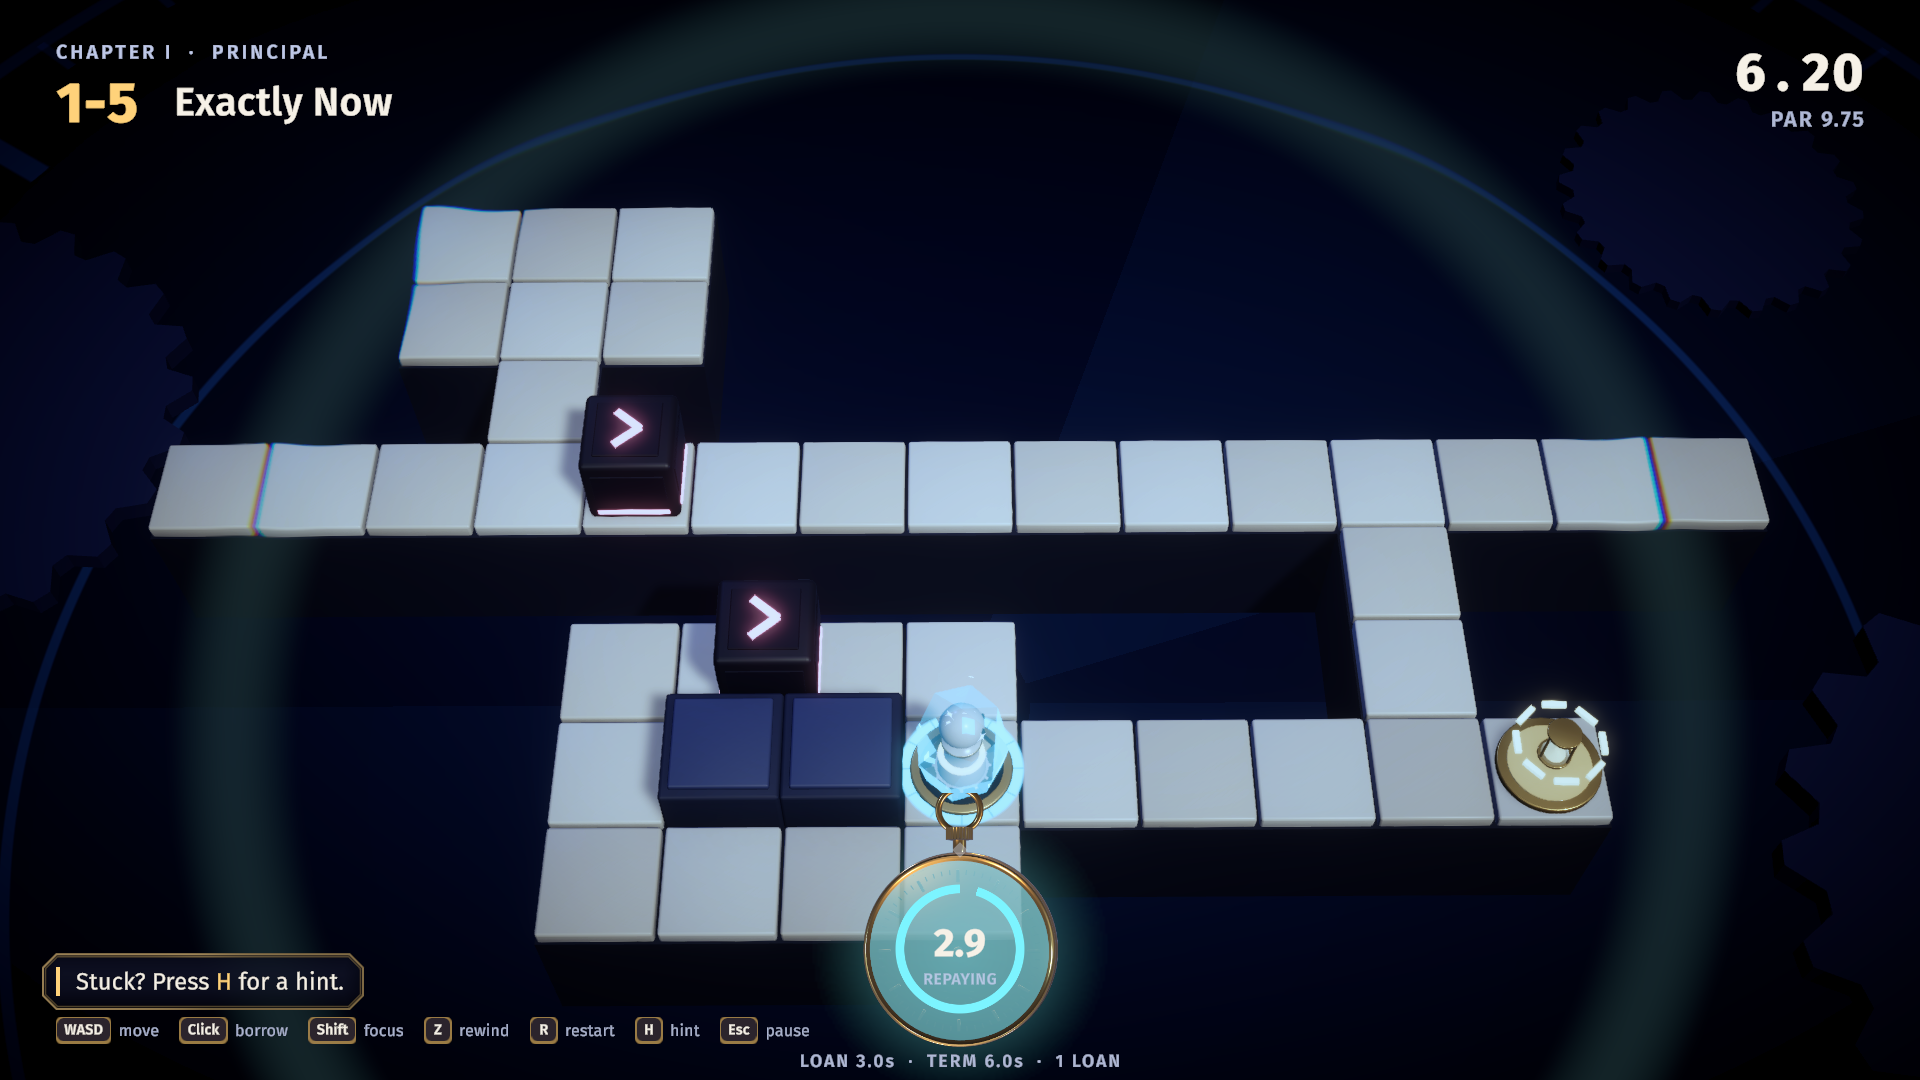
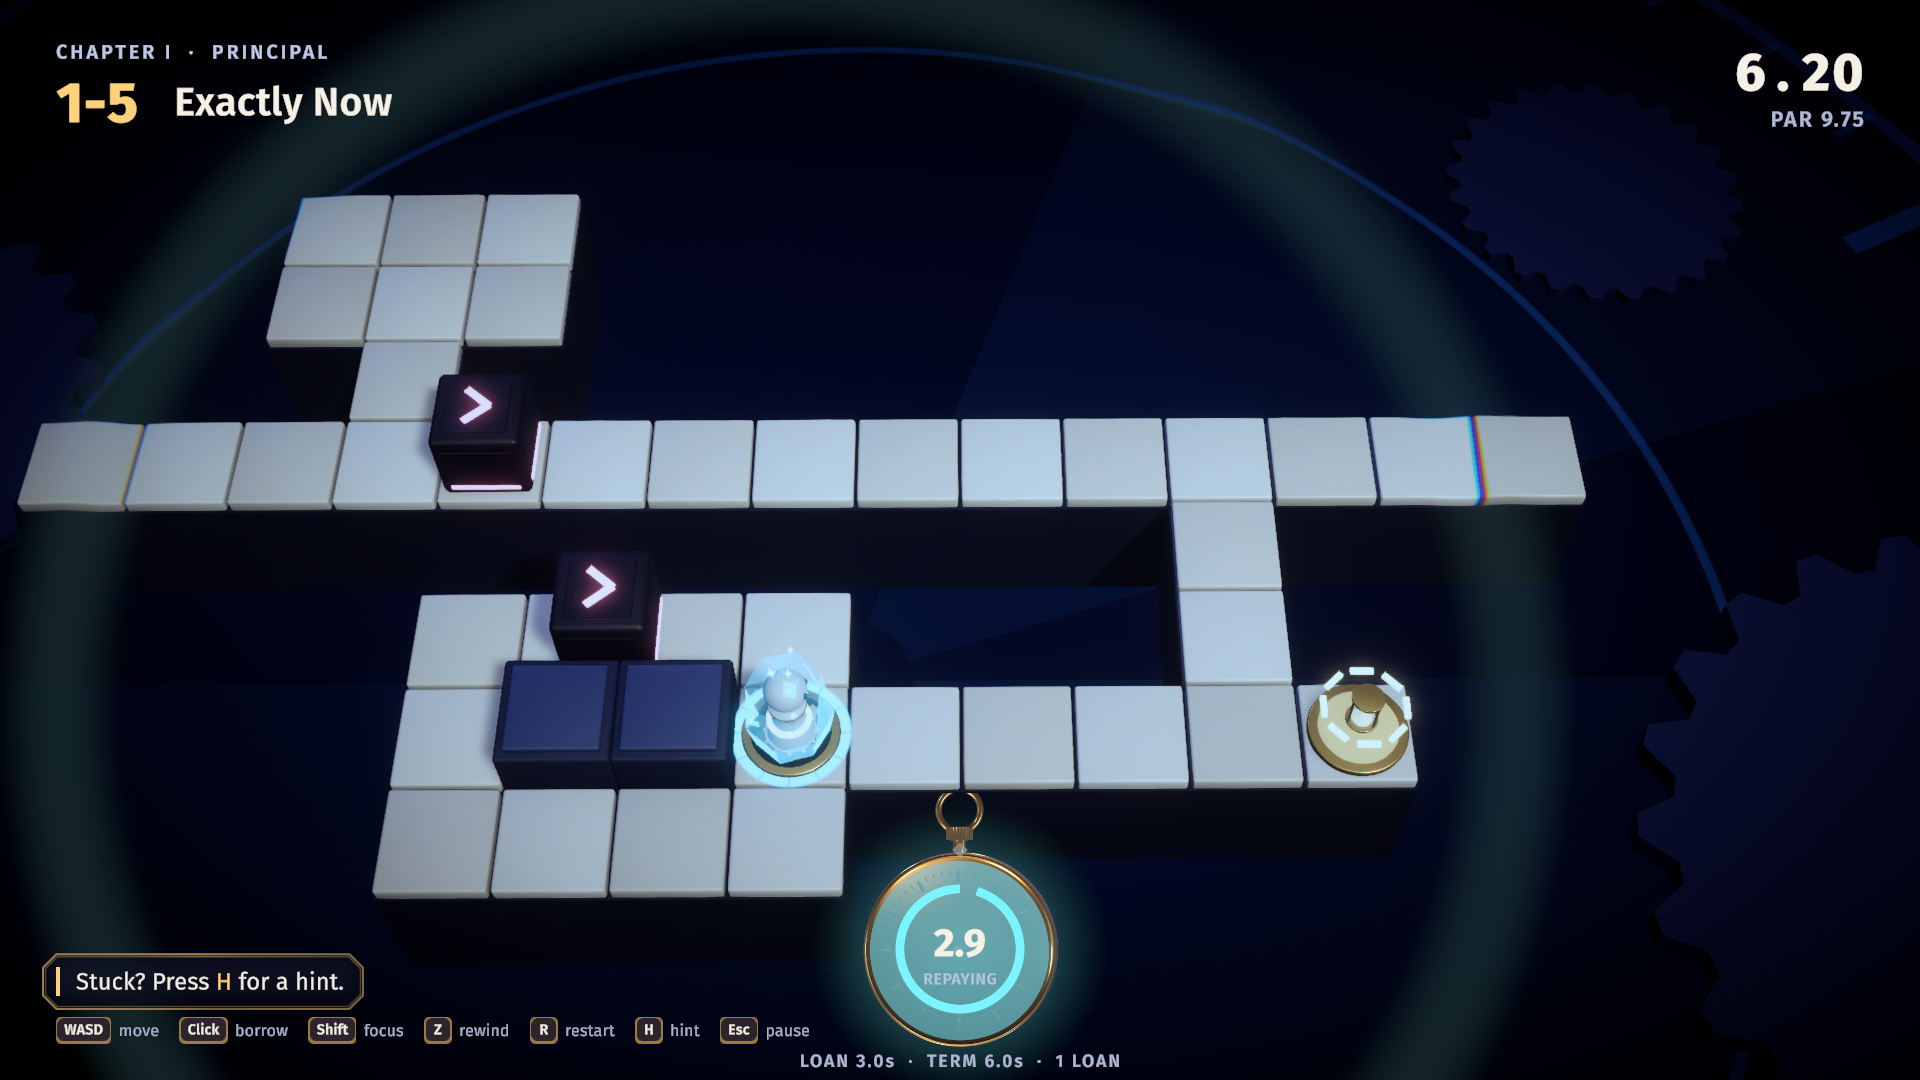
README stills in the game's own framing
The stills tool cleared the trailer's camera moves but framed boards without
the HUD avoidance the game uses, so 4-5's bottom dial and rows of 1-5 and 2-4
sat under the watch in the README shots. Stills of a level in play now frame
the way the game does; the title and menu stills (no HUD) and the trailer's
own shots keep their framing, so the cut is unchanged. Regenerated from the
release build: 03_exactly-now, 04_in-the-beams and 10_settlement changed;
the rest differ only in noise (the title's watch shows the real time) and
were left as they were. record.sh caps files at 512 MB for stills runs.

diff --git a/Assets/Scripts/Game/GameRoot.Trailer.cs b/Assets/Scripts/Game/GameRoot.Trailer.cs
@@ -134,7 +134,7 @@ namespace BorrowedSeconds.Game
             Save.learned = promptDemo ? MiniJson.Int(s, "learned", 0) : ~0;
             List<TimedAction> acts = null;
 
-            void Backdrop(bool muted)
+            void Backdrop(bool muted, bool inPlay = false)
             {
                 LoadLevel(li);
                 acts = ReplayFor(Catalog.Levels[li], s);
@@ -142,7 +142,7 @@ namespace BorrowedSeconds.Game
                 Session.AllowInput = false;
                 Session.Muted = muted;
                 Session.Seek(MiniJson.Int(s, "seek", 0));
-                FrameShot(s);
+                FrameShot(s, inPlay && hud);
             }
 
             switch (type)
@@ -151,7 +151,7 @@ namespace BorrowedSeconds.Game
                     StartLevel(li, true);
                     acts = ReplayFor(Catalog.Levels[li], s);
                     Session.Autoplay = acts;
-                    FrameShot(s);
+                    FrameShot(s, hud);
                     break;
                 case "title":
                 case "end":
@@ -186,7 +186,7 @@ namespace BorrowedSeconds.Game
                     ending.Show(total, par, 21, Catalog.Levels.Count, () => { });
                     break;
                 default: // "level", or a menu over a level ("settings")
-                    Backdrop(MiniJson.Bool(s, "muted", false));
+                    Backdrop(MiniJson.Bool(s, "muted", false), true);
                     State = Flow.Playing;
                     break;
             }
@@ -369,7 +369,7 @@ namespace BorrowedSeconds.Game
         /// Camera for a shot: zoom, sideways shift, a lean toward a tile ("lean": [x, y, amount]) and a
         /// world-space pan ("pan": [x, z]; positive z lowers the board on screen).
         /// </summary>
-        void FrameShot(Dictionary<string, object> s)
+        void FrameShot(Dictionary<string, object> s, bool withHud)
         {
             if (stillsRun) s = new Dictionary<string, object>(); // screenshots keep the game's own framing
             Rig.Zoom = Num(s, "zoom", 1f);
@@ -385,7 +385,9 @@ namespace BorrowedSeconds.Game
             }
             var pan = MiniJson.List(s, "pan");
             if (pan.Count >= 2) Rig.Offset += new Vector3(Num(pan, 0, 0f), 0f, Num(pan, 1, 0f));
-            Rig.Frame(board.Bounds, true);
+            // stills of a level in play also keep tiles out from under the HUD, as play does (the title and
+            // menus have no HUD to clear); the trailer's own shots keep their framing, so the cut stays reproducible
+            Rig.Frame(board.Bounds, true, stillsRun && withHud ? board.TileTops : null);
             Rig.Snap();
         }
 

diff --git a/README.md b/README.md
@@ -237,5 +237,5 @@ Version 0.1.0. The game is complete and playable from start to finish, but it's 
 - ⚠ **The audio mix hasn't been tuned by ear.** It is balanced by measurement instead. The music now ducks under the key stingers (borrow, freeze, thaw, latch, exit, win, default), stinger pile-ups are trimmed, and the music sits 2 dB lower. On the same scripted run, `balance.py` measures every key stinger at least +5 dB over the music (median +10.1 to +11.0 dB across runs; before: median +3.5 dB, with borrow 1 dB *under* the music), and the mix peaks at 0.84 to 0.89 instead of 0.97. Nobody has listened to it yet.
 - ⚠ **Released for Linux only.** `Tools/unity.sh build-mac` builds a universal macOS app (Intel and Apple silicon, Mono, bundle id `com.nearbycoder.borrowedseconds`). Unity ad-hoc signs it, but it isn't Developer-ID signed or notarized, and it has never been run on a Mac, so it isn't published. Windows needs Unity's Windows Build Support module, which isn't installed on the build machine; `Tools/unity.sh build-windows` is ready for it but untested. There's no web build.
 - ⚠ **Work in progress beyond chapter VII.** Chapters VIII–XII (a 60-level total) are named in `LevelCatalog.cs` (*Amortize*, *Exposure*, *Maturity*, *Arbitrage*, *Solvency*) but not shipped; a chapter ships only when all five of its levels are proven. Three chapter VIII designs sit in `Tools/lab/` (`c81`, `c82`, `c85`: *Shade*, *Bridge*, *Joint Account*), each proven to need at least two loans, and *Joint Account* to need the debt as well. Round 3's sweeps found no fourth or fifth design with an idea of its own (see `docs/IMPROVEMENTS.md`). The earlier lab design *Instalments* was dropped because its map duplicated 7-3 *Same Day*. Chapter VII's five levels are solver-proven but, like the rest, have never been played by a person; two of them (7-2, 7-4) came out of an automated sweep and share an idea (freeze the lane's beam, let the debt hold the dial).
-- ⚠ **The trailer predates chapter VII** and rounds 1–2's interface changes (it says 30 levels and six chapters). Re-cutting it is the owner's call. The README screenshots were regenerated from the current build in round 4 with `Tools/trailer/make_trailer.sh --stills`. They use the trailer's framing, which is kept as it was so the trailer stays reproducible. The game now slides or pulls back the camera on seven levels to keep tiles out from under the HUD, so in play 4-5's bottom dial is no longer under the watch as it is in the *Settlement* still.
+- ⚠ **The trailer predates chapter VII** and rounds 1–2's interface changes (it says 30 levels and six chapters). Re-cutting it is the owner's call. The README screenshots come from the current build (`Tools/trailer/make_trailer.sh --stills`) and, since round 5, use the game's own framing, which keeps every floor tile out from under the HUD. The trailer's shots keep their older framing so the cut stays reproducible; in the trailer, 4-5's bottom dial still sits under the watch.
 - ⚠ **No license has been chosen yet.** All rights are reserved until a `LICENSE` file is added.
